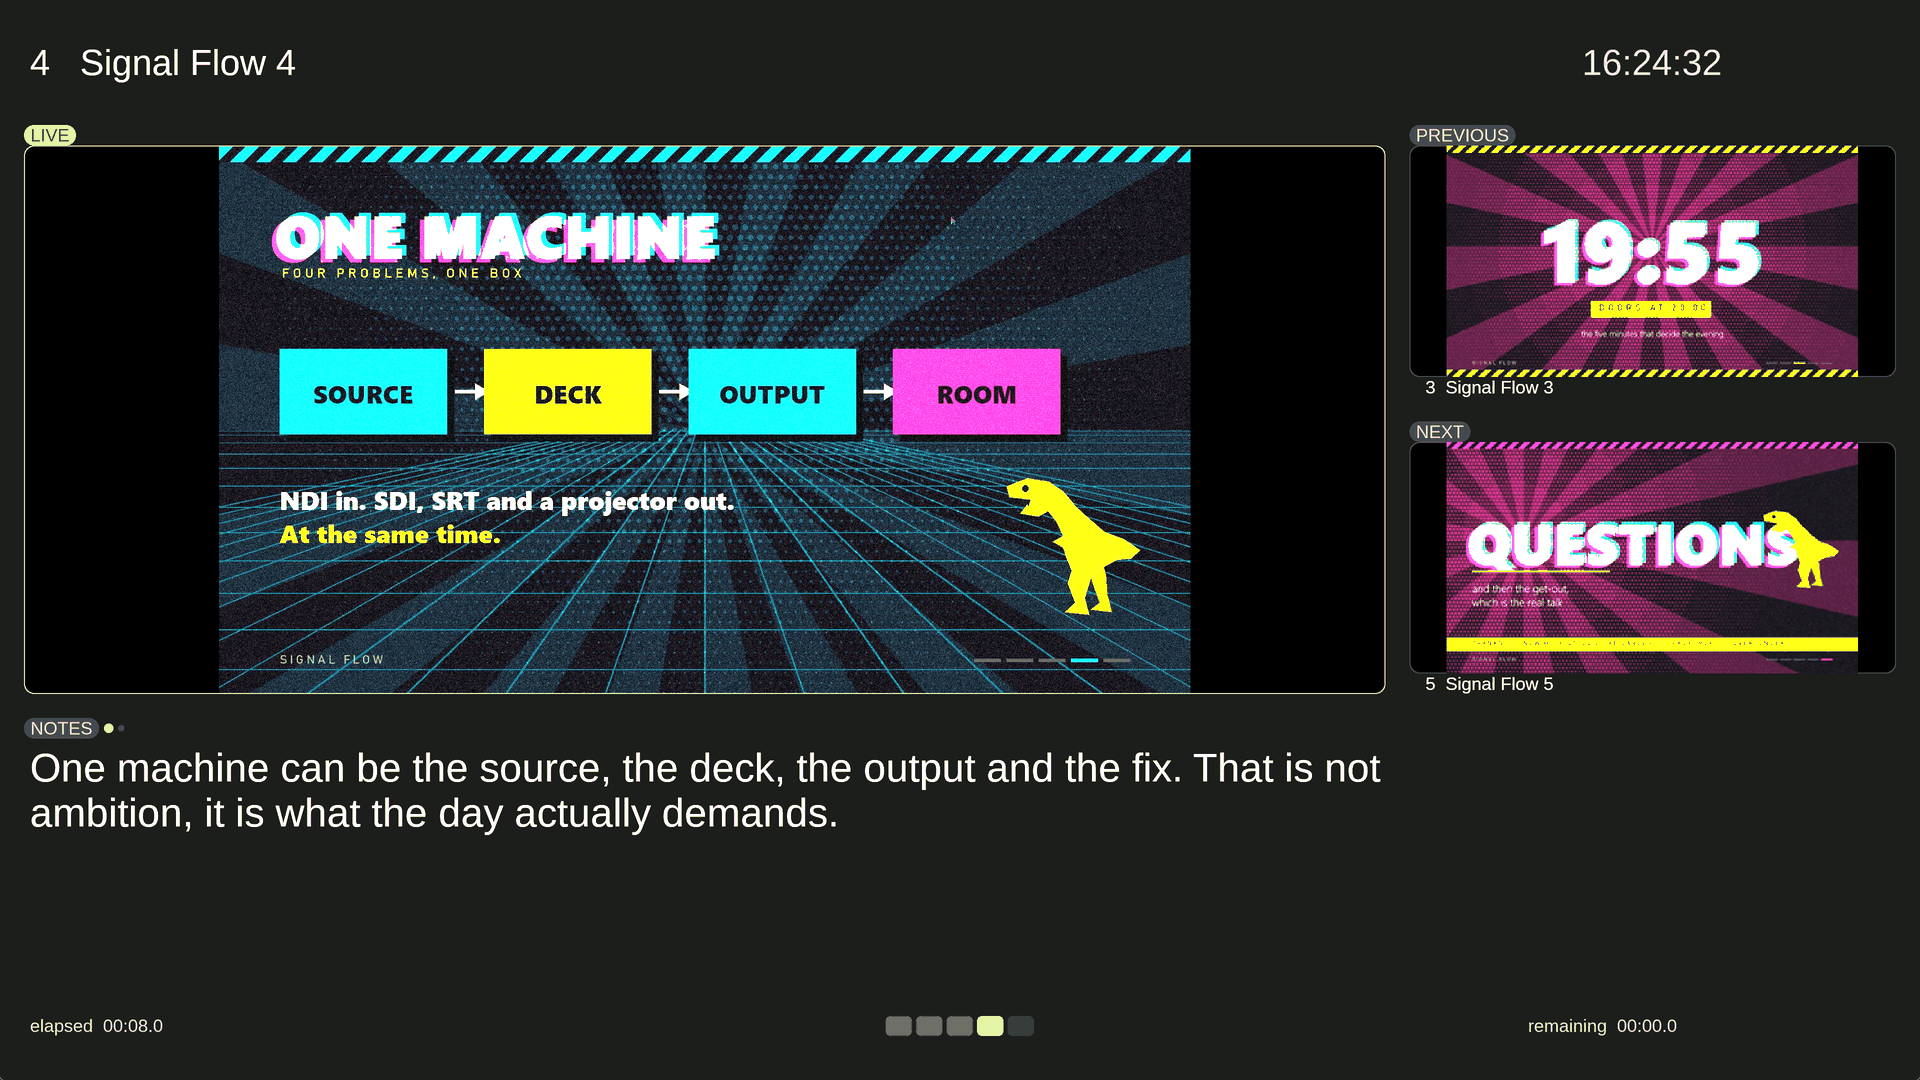
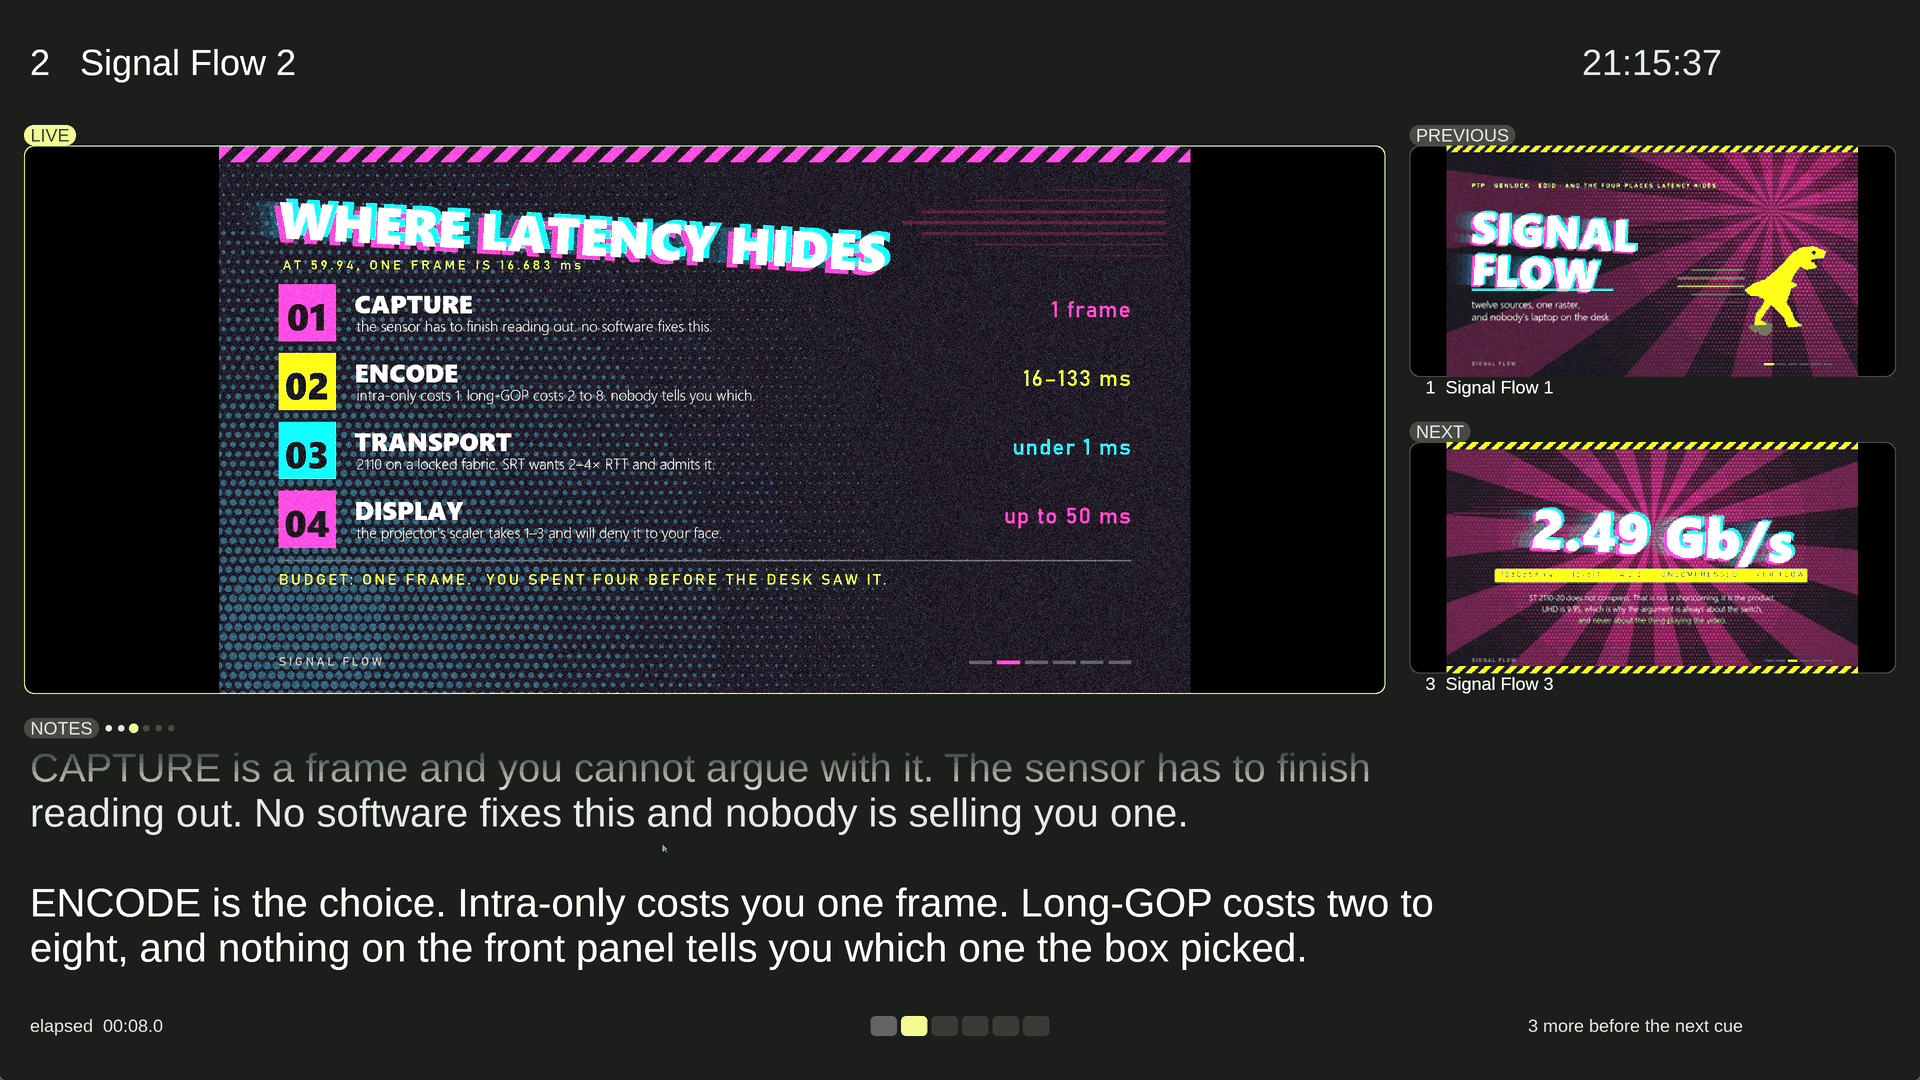
Show the deck doing builds, and stop claiming three transitions
James, on the demo deck: "show one with builds and complex transitions as
examples etc."

TRANSITIONS. The manual said there were three -- cut, crossfade, dip to black.
There are THIRTEEN in TransitionStyle: those plus dip to WHITE, push left,
right, up and down, wipe left, right, up and down, and an iris. So the section
was not merely thin, it was answering "does it do complex transitions?" with
"no" when the answer is yes. Now a table with the wire tokens, and the
distinction that matters in motion and not in a still: a push moves both
pictures, a wipe moves only the boundary.

BUILDS. A cue's notes split on a line of --- and the presenter steps through
them without changing the slide. The demo deck had one or two parts per slide,
which shows that feature about as well as three identical moire cards showed
presenter view. It now has 23 note parts across 6 slides, written so the builds
ARE the talk: the latency slide reveals its four stages one at a time, and the
comparison slide concedes Mitti, QLab and Millumin one at a time before landing
the argument.

The site's presenter screenshot is re-shot mid-build, and it shows things the
last one could not: the build indicator, the part already spoken greyed out
above the part being spoken, and "3 more before the next cue" in the footer.
The live slide is visibly holding still while the notes move, which is the
whole point and was previously invisible.

Shot on the binary with james-95's frame-serial fix, verified beforehand
[…]

diff --git a/docs/manual.html b/docs/manual.html
@@ -188,9 +188,10 @@
         <ul><li><strong>Loop playlist</strong> — after the last cue, wrap to the first.</li><li><strong>Shuffle</strong> — auto-advance picks a random other cue. The shuffle generator is seeded from a real entropy source at launch, so the order differs every run.</li></ul>
         <p>Missing cues are skipped on auto-advance so a single missing file can't stop the show (see §20).</p>
         <h2 id="transitions"><a href="#transitions" class="anchor">10. Transitions</a></h2>
-        <p>Cue-to-cue transitions are set at the deck level and can be overridden per cue:</p>
-        <ul><li><strong>Cut</strong> — instant.</li><li><strong>Crossfade</strong> — alpha blend over the transition time.</li><li><strong>Dip to black</strong> — fade down, then up.</li></ul>
-        <p>Set the deck default in the playlist settings; override on a cue in its PLAYBACK section. The incoming cue's fade-in is the visible ramp on the output path. <code>next xfade</code> on a cue toggles whether a transition is used when auto-advancing into the next cue.</p>
+        <p>Cue-to-cue transitions are set at the deck level and can be overridden per cue. There are <strong>thirteen</strong> styles:</p>
+        <div class="table-scroll"><table><thead><tr><th>Style</th><th>Token</th><th>What happens</th></tr></thead><tbody><tr><td>Cut</td><td><code>cut</code></td><td>Instant</td></tr><tr><td>Crossfade</td><td><code>crossfade</code></td><td>Alpha blend over the transition time</td></tr><tr><td>Dip to black</td><td><code>dipblack</code></td><td>Down to black, then up</td></tr><tr><td>Dip to white</td><td><code>dipwhite</code></td><td>The same through white — a flash rather than a breath</td></tr><tr><td>Push left / right / up / down</td><td><code>pushleft</code> …</td><td>The incoming cue shoves the outgoing one off the raster</td></tr><tr><td>Wipe left / right / up / down</td><td><code>wipeleft</code> …</td><td>A hard edge travels across, revealing the incoming cue</td></tr><tr><td>Iris</td><td><code>iris</code></td><td>The incoming cue opens from the centre</td></tr></tbody></table></div>
+        <p>A <strong>push</strong> moves both pictures; a <strong>wipe</strong> moves only the boundary. They look alike in a still and nothing alike in motion.</p>
+        <p>Set the deck default in the playlist settings; override on a cue in its PLAYBACK section. Over the wire, <code>TRANSITIONSTYLE &lt;token&gt;</code> sets the style and <code>TRANSITION &lt;seconds&gt;</code> sets the time. The incoming cue's fade-in is the visible ramp on the output path. <code>next xfade</code> on a cue toggles whether a transition is used when auto-advancing into the next cue.</p>
         <h2 id="multi-deck-operation"><a href="#multi-deck-operation" class="anchor">11. Multi-Deck Operation</a></h2>
         <p>Multiple decks each have independent transport and playlists. Assign decks to outputs via layer assignments; deck opacity and auto-fade let stacked decks mix on a shared output. The focused deck is the one the keyboard/transport act on.</p>
         <h3 id="vj-mode">VJ mode</h3>

diff --git a/docs/index.html b/docs/index.html
@@ -152,8 +152,8 @@
     </section>
 
     <section class="shot">
-        <img src="images/presenter.png" alt="Deckboy presenter view: the previous, live and next slides across the top with the speaker's notes and a clock below, running on its own display." loading="lazy">
-        <p class="shot-caption">Presenter view is an output type of its own, so it takes its own display &mdash; live slide, the one before, the one after, the notes and the clock.</p>
+        <img src="images/presenter.png" alt="Deckboy presenter view mid-build: the live slide holds while the speaker notes advance a step at a time, with spent builds greyed out, a build counter, and the previous and next slides beside them." loading="lazy">
+        <p class="shot-caption">Presenter view is an output type of its own, so it takes its own display. Here it is part-way through a <b>build</b>: the live slide holds still while the notes advance a step at a time, the part already spoken greys out, and the footer counts what is left before the next cue.</p>
     </section>
 
     <section class="code-preview glass">

diff --git a/MANUAL.md b/MANUAL.md
@@ -351,14 +351,25 @@ the show (see §20).
 
 ## 10. Transitions
 
-Cue-to-cue transitions are set at the deck level and can be overridden per cue:
+Cue-to-cue transitions are set at the deck level and can be overridden per
+cue. There are **thirteen** styles:
 
-- **Cut** — instant.
-- **Crossfade** — alpha blend over the transition time.
-- **Dip to black** — fade down, then up.
+| Style | Token | What happens |
+|-------|-------|--------------|
+| Cut | `cut` | Instant |
+| Crossfade | `crossfade` | Alpha blend over the transition time |
+| Dip to black | `dipblack` | Down to black, then up |
+| Dip to white | `dipwhite` | The same through white — a flash rather than a breath |
+| Push left / right / up / down | `pushleft` … | The incoming cue shoves the outgoing one off the raster |
+| Wipe left / right / up / down | `wipeleft` … | A hard edge travels across, revealing the incoming cue |
+| Iris | `iris` | The incoming cue opens from the centre |
+
+A **push** moves both pictures; a **wipe** moves only the boundary. They look
+alike in a still and nothing alike in motion.
 
 Set the deck default in the playlist settings; override on a cue in its
-PLAYBACK section. The incoming cue's fade-in is the visible ramp on the output
+PLAYBACK section. Over the wire, `TRANSITIONSTYLE <token>` sets the style and
+`TRANSITION <seconds>` sets the time. The incoming cue's fade-in is the visible ramp on the output
 path. `next xfade` on a cue toggles whether a transition is used when
 auto-advancing into the next cue.
 
